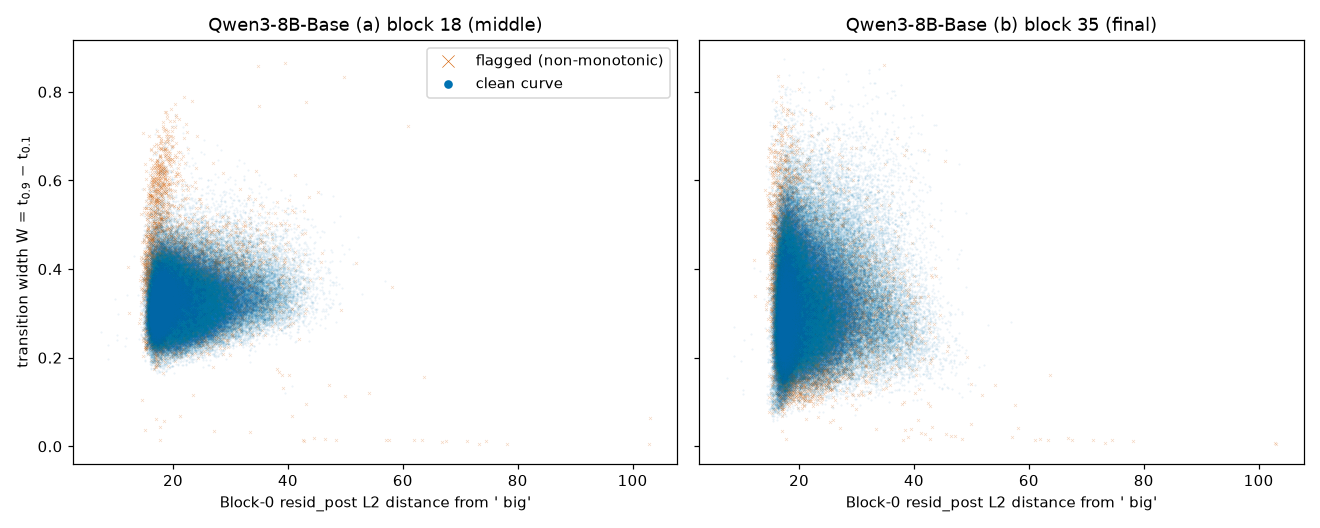
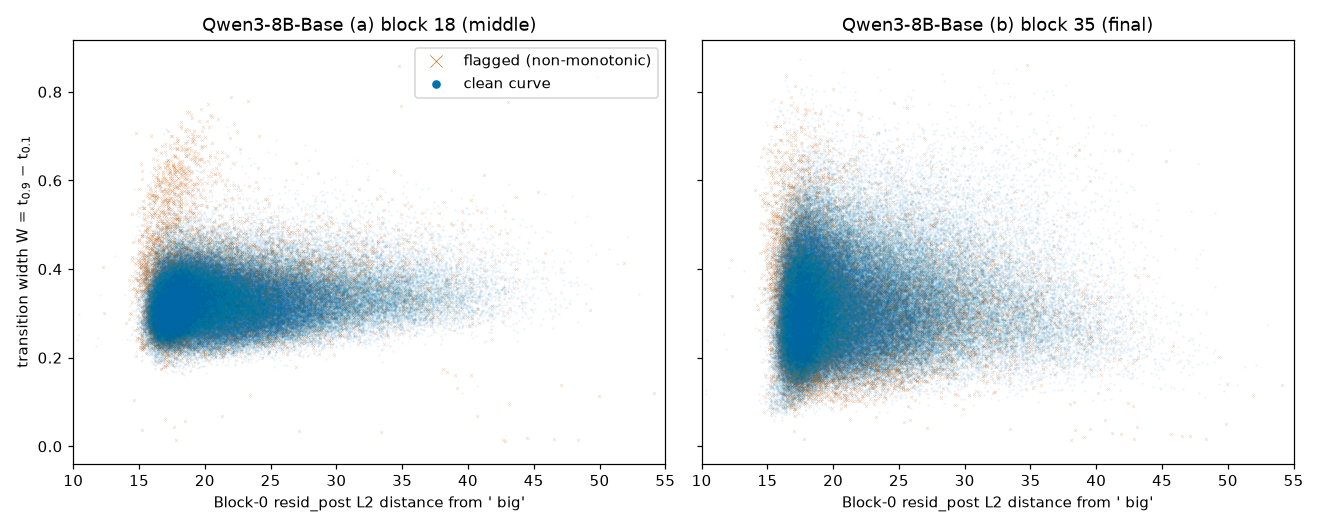
[dir27_interp_dist_vs_plateau_width] autoloop iter 2026-10-13 17:39:57

diff --git a/dir27_interp_dist_vs_plateau_width/experiments/gen_plots.py b/dir27_interp_dist_vs_plateau_width/experiments/gen_plots.py
@@ -1,5 +1,6 @@
 """Feedback 3: per-model Figures 1-3 analogues, sweep CSV, W_final band table and summary numbers.
 Usage: gen_plots.py MODEL_KEY  ->  results/gen/<key>.csv, results/gen/<key>_summary.json, plots/gen/<key>_fig{1,2,3}.png
+       gen_plots.py MODEL_KEY fig1  ->  only plots/gen/<key>_fig1_distance_vs_width.png (nothing else is rewritten)
 """
 import csv
 import glob
@@ -13,10 +14,12 @@ import matplotlib.pyplot as plt
 import numpy as np
 from transformers import AutoTokenizer
 
-from common import CVD, XLABEL
+from common import CVD, SITE, XLABEL
 from gen_common import GEN, GPLOTS, MODELS, NAMES
 
 BACKSTEP = 0.05
+# Feedback 4: fixed x range of Figure 1 for the block-0 run (tokens outside it are not drawn)
+FIG1_XLIM = {("block0_resid_post", "llama-3.1-8b"): (1, 2.5), ("block0_resid_post", "qwen3-8b-base"): (10, 55)}
 BANDS = ((0, 0.05), (0.05, 0.1), (0.1, 0.15), (0.15, 0.2), (0.2, 0.3), (0.3, 0.5), (0.5, 1.01))
 
 
@@ -34,8 +37,16 @@ def legend(ax):
         lh.set_alpha(1)
 
 
-def main(key):
-    tok = AutoTokenizer.from_pretrained(MODELS[key][0])
+def write_csv(key, tok, ids, D, Wm, Wf, flag):
+    with open(os.path.join(GEN, f"{key}.csv"), "w", newline="") as f:
+        w = csv.writer(f)
+        w.writerow(["token_id", "token", "D", "W_mid", "W_final", "flag_nonmonotonic"])
+        for i in range(len(ids)):
+            w.writerow([ids[i], repr(tok.decode([int(ids[i])])), f"{D[i]:.4f}", f"{Wm[i]:.4f}",
+                        f"{Wf[i]:.4f}", int(flag[i])])
+
+
+def main(key, fig1_only=False):
     meta = json.load(open(os.path.join(GEN, key, "meta.json")))
     sh = [np.load(p) for p in sorted(glob.glob(os.path.join(GEN, key, "shard_*.npz")))]
     ids = np.concatenate([s["ids"] for s in sh])
@@ -44,12 +55,9 @@ def main(key):
     flag = ((st[:, [3, 4, 9, 10]] > 1).any(1)) | (st[:, [5, 11]] > BACKSTEP).any(1)
     Wm, Wf = st[:, 2], st[:, 8]
     name, bm, bf = NAMES[key], meta["mid_block"], meta["final_block"]
-    with open(os.path.join(GEN, f"{key}.csv"), "w", newline="") as f:
-        w = csv.writer(f)
-        w.writerow(["token_id", "token", "D", "W_mid", "W_final", "flag_nonmonotonic"])
-        for i in range(len(ids)):
-            w.writerow([ids[i], repr(tok.decode([int(ids[i])])), f"{D[i]:.4f}", f"{Wm[i]:.4f}",
-                        f"{Wf[i]:.4f}", int(flag[i])])
+    if not fig1_only:
+        tok = AutoTokenizer.from_pretrained(MODELS[key][0])
+        write_csv(key, tok, ids, D, Wm, Wf, flag)
 
     titles = (f"(a) block {bm} (middle)", f"(b) block {bf} (final)")
     # Figure 1 analogue: D vs W, both readout blocks
@@ -58,10 +66,17 @@ def main(key):
         scatter(ax, D, W, flag, np.ones_like(flag))
         ax.set_title(f"{name} {t}")
     axes[0].set_ylabel("transition width W = t$_{0.9}$ − t$_{0.1}$")
+    if (SITE, key) in FIG1_XLIM:
+        lo, hi = FIG1_XLIM[SITE, key]
+        axes[0].set_xlim(lo, hi)
+        print(f"fig1 x range {lo}-{hi}: {int((D < lo).sum())} tokens below, {int((D > hi).sum())} above, "
+              f"{len(D)} total; D min {D.min():.2f} max {D.max():.2f}")
     legend(axes[0])
     fig.tight_layout()
     fig.savefig(os.path.join(GPLOTS, f"{key}_fig1_distance_vs_width.png"), dpi=110)
     plt.close(fig)
+    if fig1_only:
+        return
 
     # Figure 2 analogue: zoom on the 5th-95th percentile of D, y range = min-max W in that range
     lo, hi = np.percentile(D, [5, 95])
@@ -126,4 +141,4 @@ def main(key):
 
 
 if __name__ == "__main__":
-    main(sys.argv[1])
+    main(sys.argv[1], fig1_only=sys.argv[2:] == ["fig1"])

diff --git a/dir27_interp_dist_vs_plateau_width/RESULTS.md b/dir27_interp_dist_vs_plateau_width/RESULTS.md
@@ -309,14 +309,15 @@ The 12 widest tokens (W_final in brackets): ` giant` (0.78), ` large` (0.77), ` 
 
 ### Llama-3.1-8B
 
-To check for a slope in Llama-3.1-8B, Figure 12 plots every token and Figure 13 zooms in on the 5th–95th
-percentile of D (1.56–1.90).
+To check for a slope in Llama-3.1-8B, Figure 12 plots the tokens with D between 1 and 2.5 and Figure 13
+zooms in on the 5th–95th percentile of D (1.56–1.90).
 
 ![Llama-3.1-8B width vs block-0 distance](plots/block0_resid_post/gen/llama-3.1-8b_fig1_distance_vs_width.png)
 
 **Figure 12.** Llama-3.1-8B. Each point is one token B. x: block-0 resid_post L2 distance D from ` big`;
 y: transition width W. (a) block 16 (middle); (b) block 31 (final). Round dots = unflagged curves;
-crosses = flagged curves.
+crosses = flagged curves. The x-axis is limited to D from 1 to 2.5; 26 of 128,255 tokens fall outside it
+and are not drawn (3 below 1; 23 above 2.5, the farthest at D ≈ 16.5).
 
 ![Llama-3.1-8B zoom](plots/block0_resid_post/gen/llama-3.1-8b_fig2_zoom_distance_vs_width.png)
 
@@ -349,14 +350,15 @@ The 12 widest tokens (W_final in brackets): ` oversized` (0.74), ` large` (0.70)
 
 ### Qwen3-8B-Base
 
-To check for a slope in Qwen3-8B-Base, Figure 15 plots every token and Figure 16 zooms in on the 5th–95th
-percentile of D (16.41–32.30).
+To check for a slope in Qwen3-8B-Base, Figure 15 plots the tokens with D between 10 and 55 and Figure 16
+zooms in on the 5th–95th percentile of D (16.41–32.30).
 
 ![Qwen3-8B-Base width vs block-0 distance](plots/block0_resid_post/gen/qwen3-8b-base_fig1_distance_vs_width.png)
 
 **Figure 15.** Qwen3-8B-Base. Each point is one token B. x: block-0 resid_post L2 distance D from ` big`;
 y: transition width W. (a) block 18 (middle); (b) block 35 (final). Round dots = unflagged curves;
-crosses = flagged curves.
+crosses = flagged curves. The x-axis is limited to D from 10 to 55; 20 of 151,668 tokens fall outside it
+and are not drawn (4 below 10; 16 above 55, the farthest at D ≈ 103).
 
 ![Qwen3-8B-Base zoom](plots/block0_resid_post/gen/qwen3-8b-base_fig2_zoom_distance_vs_width.png)
 

diff --git a/dir27_interp_dist_vs_plateau_width/REPORT.md b/dir27_interp_dist_vs_plateau_width/REPORT.md
@@ -233,16 +233,18 @@ down.
 ![Scatter of width vs block-0 distance, Llama-3.1-8B](plots/block0_resid_post/gen/llama-3.1-8b_fig1_distance_vs_width.png)
 
 **Figure 7.** Llama-3.1-8B. Same axes and markers as Figure 5. (a) block 16 (middle); (b) block 31
-(final). Nine in ten tokens have D between 1.56 and 1.90, so the cloud is narrow; a few tokens reach
-D ≈ 16.5.
+(final). The x-axis is limited to D from 1 to 2.5. Nine in ten tokens have D between 1.56 and 1.90.
+Of 128,255 tokens, 26 fall outside the plotted range and are not drawn (3 below 1; 23 above 2.5, the
+farthest at D ≈ 16.5).
 
 ![Scatter of width vs block-0 distance, Qwen3-8B-Base](plots/block0_resid_post/gen/qwen3-8b-base_fig1_distance_vs_width.png)
 
 **Figure 8.** Qwen3-8B-Base. Same axes and markers as Figure 5. (a) block 18 (middle); (b) block 35
-(final).
+(final). The x-axis is limited to D from 10 to 55. Of 151,668 tokens, 20 fall outside the plotted range
+and are not drawn (4 below 10; 16 above 55, the farthest at D ≈ 103).
 
-A few far outliers squeeze Llama's cloud into a narrow band, and Qwen3's cloud shows no obvious tilt
-by eye. Table 2 shows small rises at both blocks in both models.
+Llama's cloud is a compact blob with at most a slight upward lean at the middle block, and Qwen3's
+cloud shows no obvious tilt by eye. Table 2 shows small rises at both blocks in both models.
 
 
 | Model | Site | W_mid: nearest → farthest fifth | W_final: nearest → farthest fifth | Final narrower |

diff --git a/dir27_interp_dist_vs_plateau_width/CHANGELOG.md b/dir27_interp_dist_vs_plateau_width/CHANGELOG.md
@@ -68,3 +68,11 @@ RESULTS.md and every REPORT*.md stay current-best with no history.
 - Figure changes: REPORT.md now has 8 figures (GPT-2 Large Figures 1-4 regenerated; one distance-vs-width figure
   per other model). GPT-2 Large zoom window is the 5th-95th percentile of D (was the fixed 1.6-3.3 embedding range);
   representative-curve words reselected by the same rule in the new distance space.
+
+## 2026-10-13 — Feedback 4: x range of the Llama and Qwen3 block-0 scatter plots
+- `plots/block0_resid_post/gen/llama-3.1-8b_fig1_distance_vs_width.png`: x-axis full range (0.83-16.53) -> 1-2.5.
+  `plots/block0_resid_post/gen/qwen3-8b-base_fig1_distance_vs_width.png`: x-axis full range (7.41-103.03) -> 10-55.
+  Replotted from the existing shards; no data or measured number changed.
+- REPORT.md Figures 7-8 and RESULTS.md Figures 12 and 15: captions now give the x range and the tokens not drawn
+  (Llama 26 of 128,255; Qwen3 20 of 151,668). REPORT.md sentence "A few far outliers squeeze Llama's cloud into a
+  narrow band" -> "Llama's cloud is a compact blob with at most a slight upward lean at the middle block".

diff --git a/dir27_interp_dist_vs_plateau_width/JOURNAL.md b/dir27_interp_dist_vs_plateau_width/JOURNAL.md
@@ -430,3 +430,12 @@ On track? yes — 100%; complete.
   and the count of tokens outside it, run check_render.py.
 
 On track? yes — triage done; one replot step remains.
+
+## 2026-10-13 — feedback 4 done (replot only)
+- Added `FIG1_XLIM` and a `fig1`-only mode to `experiments/gen_plots.py`; ran it with `DIR27_SITE=block0_resid_post`
+  for llama-3.1-8b and qwen3-8b-base. Tokens outside the range: Llama 3 below 1 / 23 above 2.5; Qwen3 4 below 10 /
+  16 above 55. The y range is unchanged (still set by all tokens).
+- Captions updated in REPORT.md (Figures 7, 8) and RESULTS.md (Figures 12, 15). check_render.py passes; all
+  must-remain-unchanged files match their baseline hashes. Manifest set to `review_pending`.
+
+On track? yes — feedback 4 complete, awaiting content review.
